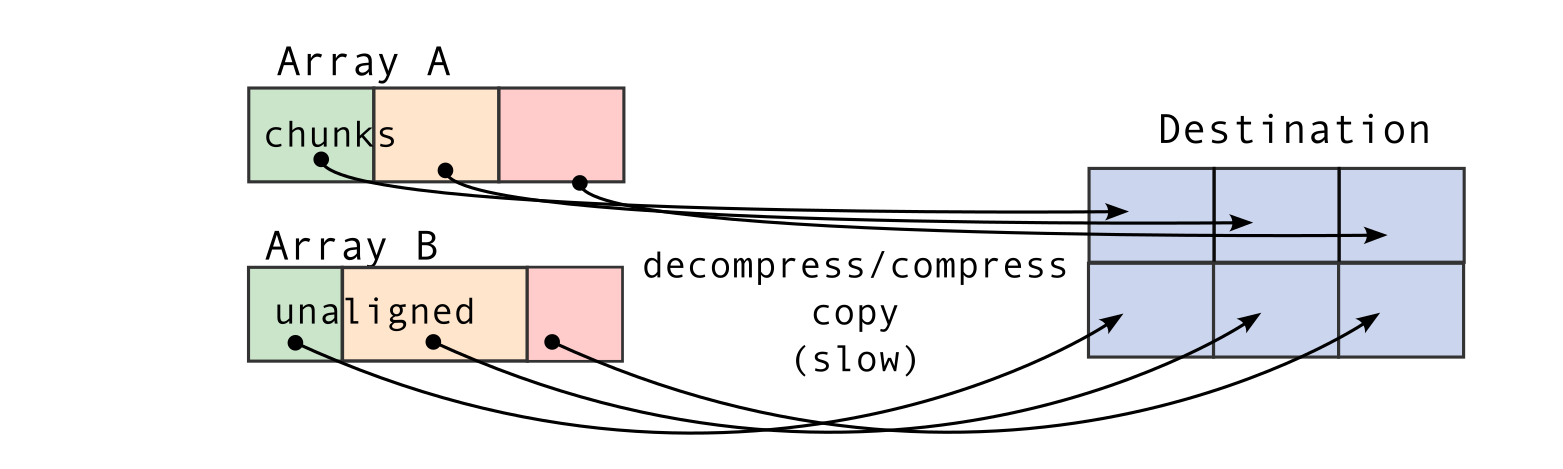
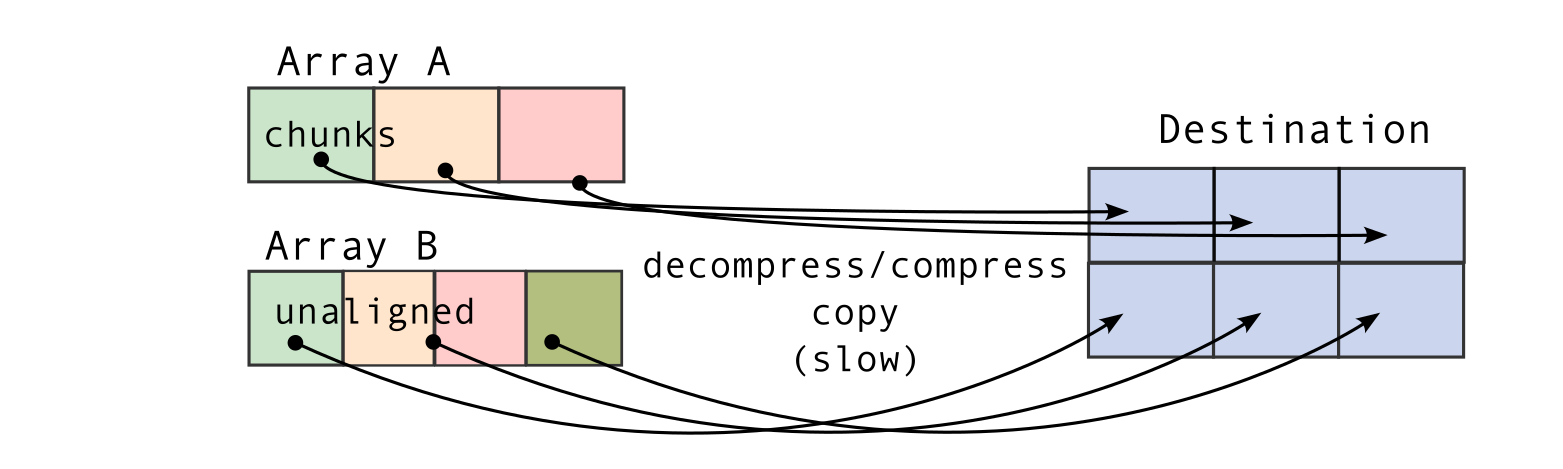
More suggestions by Luke

Changed region(s): [[0.1536, 0.5672, 0.3992, 0.806]]

diff --git a/posts/blosc2-new-concatenate.rst b/posts/blosc2-new-concatenate.rst
@@ -36,15 +36,17 @@ A really handy feature is that you can use urlpath and mode to save the combined
 Aligned versus Non-Aligned Concatenation
 ----------------------------------------
 
-Blosc2's concatenate function is smart. It processes your data in small pieces (chunks). This means it can join very large arrays stored on your disk without using up all your computer's memory. Even better, if the arrays you're joining have sizes that are exact multiples of Blosc2's chunk size, the process is much faster. Why? Because Blosc2 can avoid a lot of extra work like decompressing and re-compressing it.
+Blosc2's concatenate function is smart. It processes your data in small pieces of compressed data (chunks). This has two consequences. The first is that you can join very large arrays, stored on your disk, chunk-by-chunk without using up all your computer's memory. Secondly, if the chunks fit neatly into the arrays to be concatenated, the process is much faster. Why? Because Blosc2 can avoid a lot of extra work, chiefly decompressing and re-compressing the chunks.
 
-Let's look at some pictures to see what "aligned" and "unaligned" concatenation means. "Aligned" is when your array sizes match up nicely with the chunk sizes. "Unaligned" is when they don't.
+Let's look at some pictures to see what "aligned" and "unaligned" concatenation means. "Aligned" means that chunk boundaries of the arrays to be concatenated line up with each other. "Unaligned" means that this is not the case.
 
 .. image:: /images/blosc2-new-concatenate/concat-unaligned.png
 
 .. image:: /images/blosc2-new-concatenate/concat-aligned.png
 
-The images show why aligned concatenation is faster. When array sizes line up with Blosc2's chunk sizes ('aligned'), Blosc2 can join them very quickly and efficiently. This is especially true for large arrays you might be working with in memory. For 'unaligned' arrays, Blosc2 has to do extra work: decompressing and re-compressing data, which takes more time.
+The pictures show why "aligned" concatenation is faster. In Blosc2, all data pieces (chunks) inside an array must be the same size. So, if the chunks in the arrays you're joining match up ("aligned"), Blosc2 can combine them very quickly. It doesn't have to rearrange the data into new, same-sized chunks for the final array. This is a big deal for large arrays.
+
+If the arrays are "unaligned," Blosc2 has more work to do. It has to decompress and then re-compress the data to make the new chunks fit, which takes longer. There's one more small detail for this fast method to work: the first array's size needs to be a neat multiple of its chunk size along the direction you're joining.
 
 A big plus with Blosc2 is that it always processes data in these small chunks. This means it can combine enormous arrays without ever needing to load everything into your computer's memory at once.
 
@@ -53,17 +55,17 @@ Performance
 
 To show you how much faster this new concatenate feature is, we did a speed test using LZ4 as the internal compressor in Blosc2. We compared it to the usual way of joining arrays with `numpy.concatenate`.
 
-.. image:: /images/blosc2-new-concatenate/benchmark-lz4-10k-zen4-16GB.png
+.. image:: /images/blosc2-new-concatenate/benchmark-lz4-20k-i13900K.png
 
-The speed tests show that Blosc2's new concatenate is rather slow for small arrays (like 1,000x1,000). This is because it has to do a lot of work to set up the concatenation. But when you use larger arrays (like 10,000x10,000) that starts to exceed the memory limits of our test machine (16 GB of RAM), Blosc2's new concatenate feature really shines, performing up to 10x faster than NumPy's concatenate.
+The speed tests show that Blosc2's new concatenate is rather slow for small arrays (like 1,000 x 1,000). This is because it has to do a lot of work to set up the concatenation. But when you use larger arrays (like 20,000 x 20,000) that start to exceed the memory limits of our test machine (32 GB of RAM), Blosc2's new concatenate peformance is much better, and nearing the performance of NumPy's `concatenate` function.
 
-However, if your array sizes line up well with Blosc2's internal chunks ("aligned" arrays), Blosc2 becomes much faster—typically more than 10x times faster than NumPy. This is because it can skip a lot of the work of decompressing and re-compressing data, and the cost of copying compressed data is also lower (as much as the achieved compression ratio, which for this case is around 20x).
+However, if your array sizes line up well with Blosc2's internal chunks ("aligned" arrays), Blosc2 becomes much faster—typically more than 10x times faster than NumPy for large arrays. This is because it can skip a lot of the work of decompressing and re-compressing data, and the cost of copying compressed data is also lower (as much as the achieved compression ratio, which for this case is around 20x).
 
-Using the Zstd compressor with Blosc2 can make joining "aligned" arrays even quicker.
+Using the Zstd compressor with Blosc2 can make joining "aligned" arrays even quicker, since Zstd is good at making data smaller.
 
-.. image:: /images/blosc2-new-concatenate/benchmark-zstd-10k-zen4-16GB.png
+.. image:: /images/blosc2-new-concatenate/benchmark-zstd-20k-i13900K.png
 
-Zstd is good at making data smaller. So, when arrays are aligned, there's less data to copy (compression ratios here are around 80x), which speeds things up. If arrays aren't aligned, Zstd is a bit slower than another compressor (LZ4) because it has to do more work decompressing and re-compressing. Pick the compressor that works best for what you're doing.
+ So, when arrays are aligned, there's less data to copy (compression ratios here are around 80x), which speeds things up. If arrays aren't aligned, Zstd is a bit slower than the previous compressor (LZ4) because its decompression and re-compression algorithm is slower. Conclusion? Pick the compressor that works best for what you're doing!
 
 Conclusion
 -----------
@@ -72,4 +74,4 @@ Blosc2's new concatenate feature is a great way to combine arrays quickly and wi
 
 Give it a try in your own projects! If you have questions, the Blosc2 community is there to help.
 
-And if you appreciate what we're doing with Blosc2, please think about `supporting us <https://www.blosc.org/pages/blosc-in-depth/#support-blosc/>`_. Your help lets us keep making these tools better.
+If you appreciate what we're doing with Blosc2, please think about `supporting us <https://www.blosc.org/pages/blosc-in-depth/#support-blosc/>`_. Your help lets us keep making these tools better.
